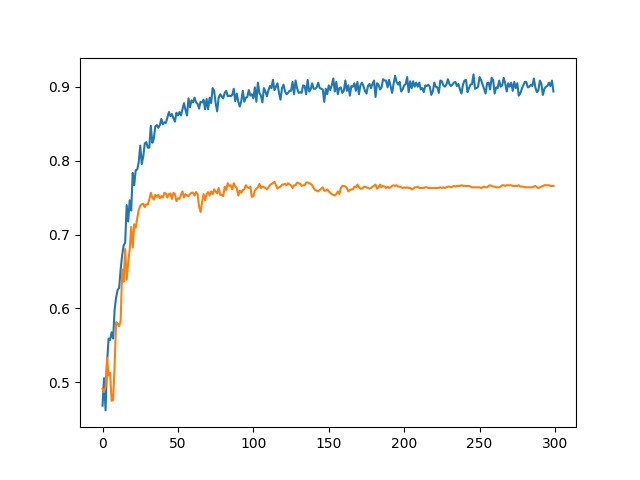
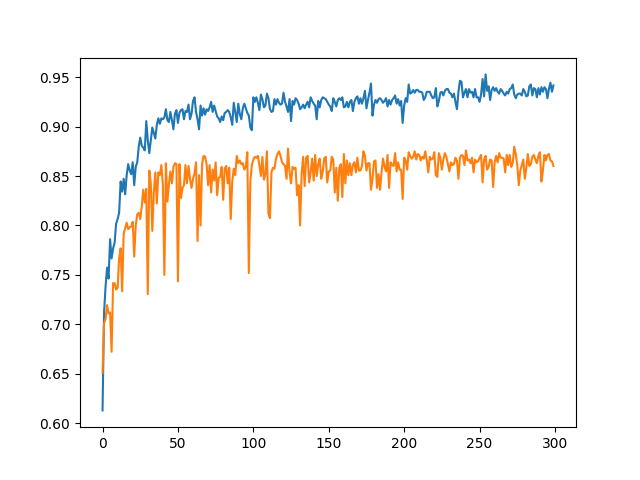
relu and leaky 87 acc

diff --git a/lab3_EEG/train.py b/lab3_EEG/train.py
@@ -123,9 +123,8 @@ def main(args):
     print(f'Test data shape: {test_data.shape}, Test label shape: {test_label.shape}')
 
     net = model.get_model(args.model, args.activation).to(device)
-    optimizer = optim.Adam(net.parameters(), lr=args.lr, weight_decay=1e-3)
-    # optimizer = optim.RMSprop(model.parameters(), lr=args.lr, weight_decay=1e-3)
-    scheduler = optim.lr_scheduler.MultiStepLR(optimizer, milestones=[150, 250], gamma=0.2)
+    optimizer = optim.Adam(net.parameters(), lr=args.lr, weight_decay=3e-2)
+    scheduler = optim.lr_scheduler.MultiStepLR(optimizer, milestones=[100, 200], gamma=0.5)
     loss_fn = nn.CrossEntropyLoss()
 
     train_size = train_data.shape[0]

diff --git a/lab3_EEG/model.py b/lab3_EEG/model.py
@@ -88,7 +88,9 @@ class DeepConvNet(nn.Module):
             nn.Dropout(p=0.5),
         )
 
-        self.fc = nn.Linear(in_features=8600, out_features=2)
+        self.fc = nn.Sequential(
+            nn.Linear(in_features=8600, out_features=2),
+        )
     
     def forward(self, x):
         x = self.header(x)
